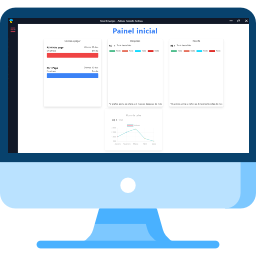
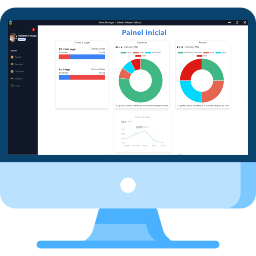
Atualizado novas imagens em projeto, e correção em algumas fontes

diff --git a/src/components/Projetos.vue b/src/components/Projetos.vue
@@ -25,19 +25,26 @@
             <div v-if="sites" class="">
                 <div class="flex w-3/5 mx-auto my-0 items-center mb-5">
                     <div class="flex rounded-full bg-blue-500 w-full">
-                        <img class="p-5" src="img/computer.png">
+                        <img class="p-5 transition duration-500 ease-in-out transform hover:-translate-y-1 hover:scale-110" src="img/computer.png">
                     </div>
                     
                     <div class="flex flex-col">
-                        <div class="transition duration-500 ease-in-out transform hover:-translate-y-1 hover:scale-110">
-                            <div class="text-center font-bold text-3xl mb-2">
-                                <p class="font-kanit font-bold">Front Finanças</p>
+                        <div class="flex justify-center transition duration-500 ease-in-out transform hover:-translate-y-1 hover:scale-110 mb-4">
+                            <div class="text-center text-3xl">
+                                <p class="font-kanit text-blue-900 font-semibold">Front Finanças - </p>
+                            </div>
+
+                            <div class="flex justify-center ml-2">
+                                <p class="p-2 font-kanit rounded-3xl bg-gray-800 text-white border-3 border-gray-100 bg-gradient-to-r hover:from-blue-500 hover:to-purple-400 hover:text-white cursor-pointer shadow-lg">
+                                    Visitar projeto
+                                </p>
                             </div>
                         </div>
 
-                        <div class="text-center">
+                        <div class="text-center ml-9">
                             <p class="font-poppins font-semibold transition duration-500 ease-in-out transform hover:-translate-y-1 hover:scale-110">Laborum cupidatat in aute enim laboris occaecat. Eu nulla adipisicing aliqua dolor occaecat. Qui magna minim cupidatat aliqua sint sunt deserunt consequat est fugiat. Amet anim Lorem culpa sit Lorem pariatur ea ullamco. Sit Lorem ullamco voluptate eiusmod aliqua officia do occaecat cupidatat ad fugiat. Veniam reprehenderit dolore exercitation voluptate dolor in deserunt ad dolor velit ex. Nostrud incididunt eu est exercitation aute do cillum.</p>
                         </div>
+
                     </div>
                 </div>
             
@@ -45,17 +52,23 @@
             
                 <div class="flex w-3/5 mx-auto my-0  items-center mb-5">
                     <div class="flex rounded-full bg-blue-500 w-full">
-                        <img class="p-5" src="img/computer.png">
+                        <img class="p-5 transition duration-500 ease-in-out transform hover:-translate-y-1 hover:scale-110" src="img/computer2.png">
                     </div>
                     
                     <div class="flex flex-col">
-                        <div class="">
-                            <div class="text-center font-bold text-3xl mb-2">
-                                <p class="font-kanit font-bold transition duration-500 ease-in-out transform hover:-translate-y-1 hover:scale-110">Front Finanças</p>
+                        <div class="flex justify-center transition duration-500 ease-in-out transform hover:-translate-y-1 hover:scale-110 mb-5">
+                            <div class="text-center text-3xl">
+                                <p class="font-kanit text-blue-900 font-semibold ">Galaxy Studios -</p>
+                            </div>
+
+                            <div class="flex justify-center ml-2">
+                                <p class="p-2 font-kanit rounded-3xl bg-gray-800 text-white border-3 border-gray-100 bg-gradient-to-r hover:from-blue-500 hover:to-purple-400 hover:text-white cursor-pointer shadow-lg">
+                                    Visitar projeto
+                                </p>
                             </div>
                         </div>
 
-                        <div class="text-center">
+                        <div class="text-center ml-9">
                             <p class="font-poppins font-semibold transition duration-500 ease-in-out transform hover:-translate-y-1 hover:scale-110">Laborum cupidatat in aute enim laboris occaecat. Eu nulla adipisicing aliqua dolor occaecat. Qui magna minim cupidatat aliqua sint sunt deserunt consequat est fugiat. Amet anim Lorem culpa sit Lorem pariatur ea ullamco. Sit Lorem ullamco voluptate eiusmod aliqua officia do occaecat cupidatat ad fugiat. Veniam reprehenderit dolore exercitation voluptate dolor in deserunt ad dolor velit ex. Nostrud incididunt eu est exercitation aute do cillum.</p>
                         </div>
                     </div>
@@ -67,22 +80,28 @@
             <div v-if="aplicativos">
                 <div class="flex w-3/5 mx-auto my-0  items-center mb-5">
                     <div class="flex rounded-full bg-blue-500 w-full items-center">
-                        <img class="mx-auto my-0" src="img/computer.png">
+                        <img class="mx-auto my-0 transition duration-500 ease-in-out transform hover:-translate-y-1 hover:scale-110" src="img/computer.png">
                     </div>
                     
                     <div class="flex flex-col">
-                        <div class="">
-                            <div class="text-center font-bold text-3xl mb-2">
-                                <p class="font-semibold font-kanit transition duration-500 ease-in-out transform hover:-translate-y-1 hover:scale-110">Front Finanças APP</p>
+                        <div class="flex justify-center transition duration-500 ease-in-out transform hover:-translate-y-1 hover:scale-110 mb-5">
+                            <div class="text-center text-3xl mb-2">
+                                <p class="font-semibold font-kanit transition duration-500 ease-in-out transform hover:-translate-y-1 hover:scale-110 text-blue-900 font-semibold">Front Finanças APP -</p>
+                            </div>
+
+                            <div class="flex justify-center ml-2">
+                                <p class="p-2 font-kanit rounded-3xl bg-gray-800 text-white border-3 border-gray-100 bg-gradient-to-r hover:from-blue-500 hover:to-purple-400 hover:text-white cursor-pointer shadow-lg">
+                                    Visitar projeto
+                                </p>
                             </div>
                         </div>
 
-                        <div class="text-center">
+                        <div class="text-center mx-8">
                             <p class="font-kanit transition duration-500 ease-in-out transform hover:-translate-y-1 hover:scale-110">Laborum cupidatat in aute enim laboris occaecat. Eu nulla adipisicing aliqua dolor occaecat. Qui magna minim cupidatat aliqua sint sunt deserunt consequat est fugiat. Amet anim Lorem culpa sit Lorem pariatur ea ullamco. Sit Lorem ullamco voluptate eiusmod aliqua officia do occaecat cupidatat ad fugiat. Veniam reprehenderit dolore exercitation voluptate dolor in deserunt ad dolor velit ex. Nostrud incididunt eu est exercitation aute do cillum.</p>
                         </div>
                     </div>
-                    <div class="flex bg-blue-500 rounded-full py-3 px-6 w-full">
-                        <img class="" src="img/phone.png">
+                    <div class="flex bg-blue-500 rounded-full w-full">
+                        <img src="img/phoneframe.png" class="transition duration-500 ease-in-out transform hover:-translate-y-1 hover:scale-110">
                     </div>
                 </div>
             </div>
